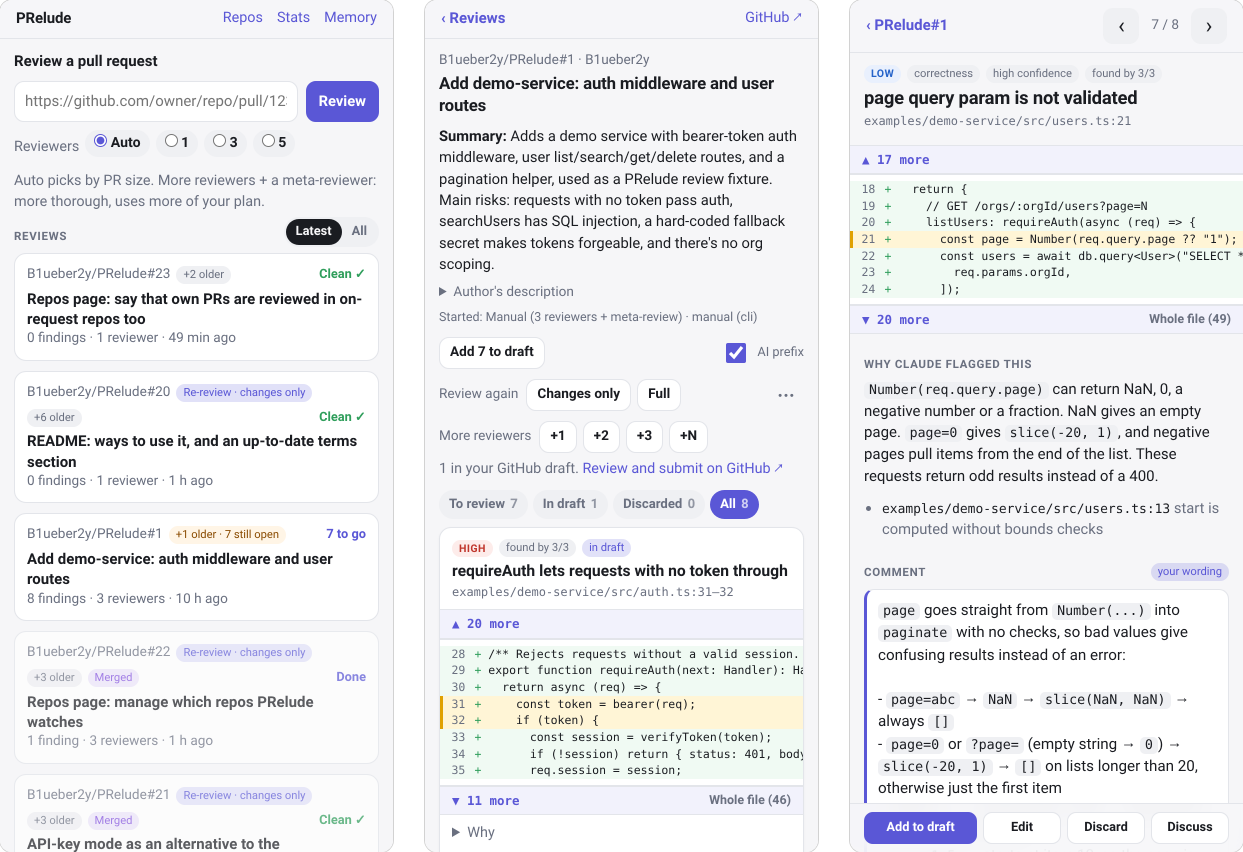
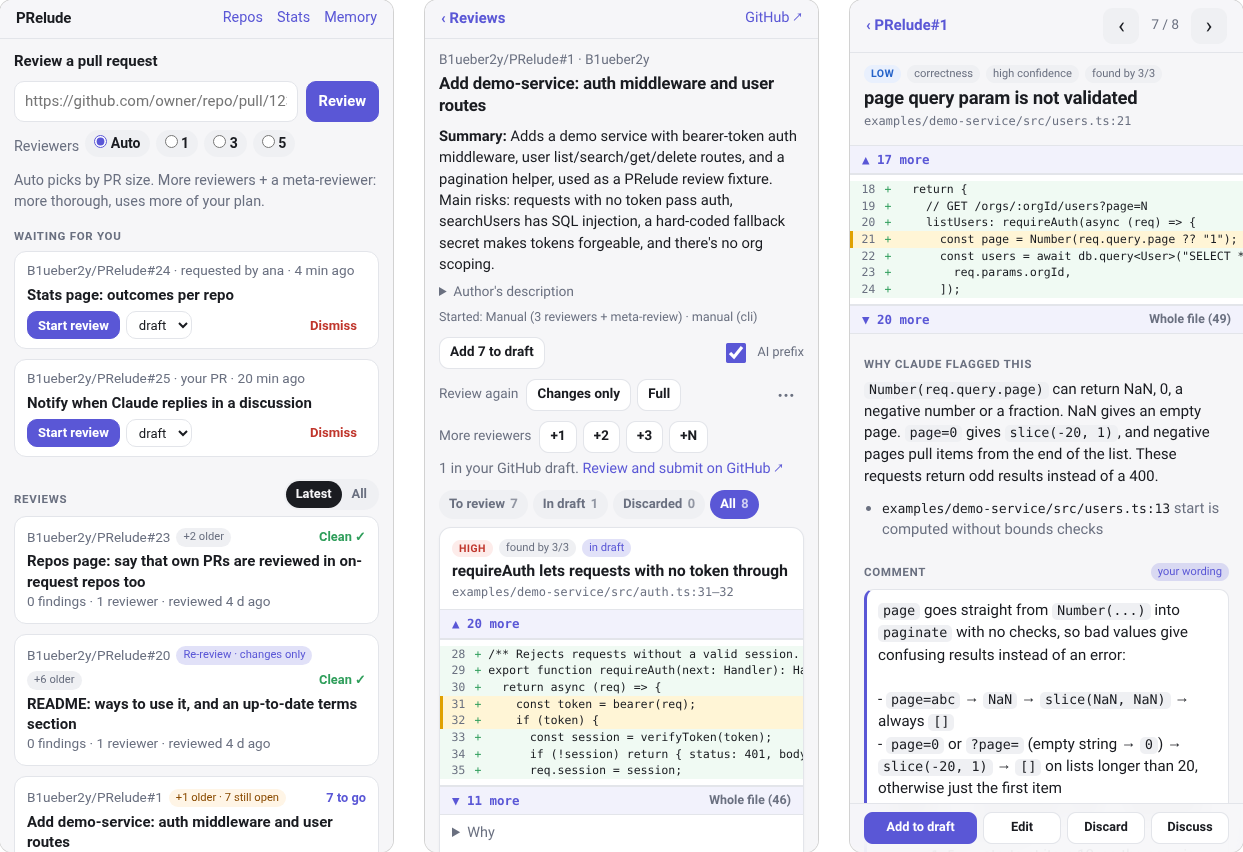
README: phone screenshot shows PRs waiting for you (#57)

diff --git a/README.md b/README.md
@@ -12,7 +12,7 @@ is not applicable.**
 </p>
 <h3 align="center">Phone</h3>
 <p align="center">
-  <img src="docs/images/phones.png" width="70%" alt="On a phone: the review list, a review with its first finding, and one finding with the code, why Claude flagged it and your wording">
+  <img src="docs/images/phones.png" width="70%" alt="On a phone: PRs waiting for you to start their review above the review list, a review with its first finding, and one finding with the code, why Claude flagged it and your wording">
 </p>
 
 AI reviewers are good at finding problems and bad at knowing which ones matter to *you*.
